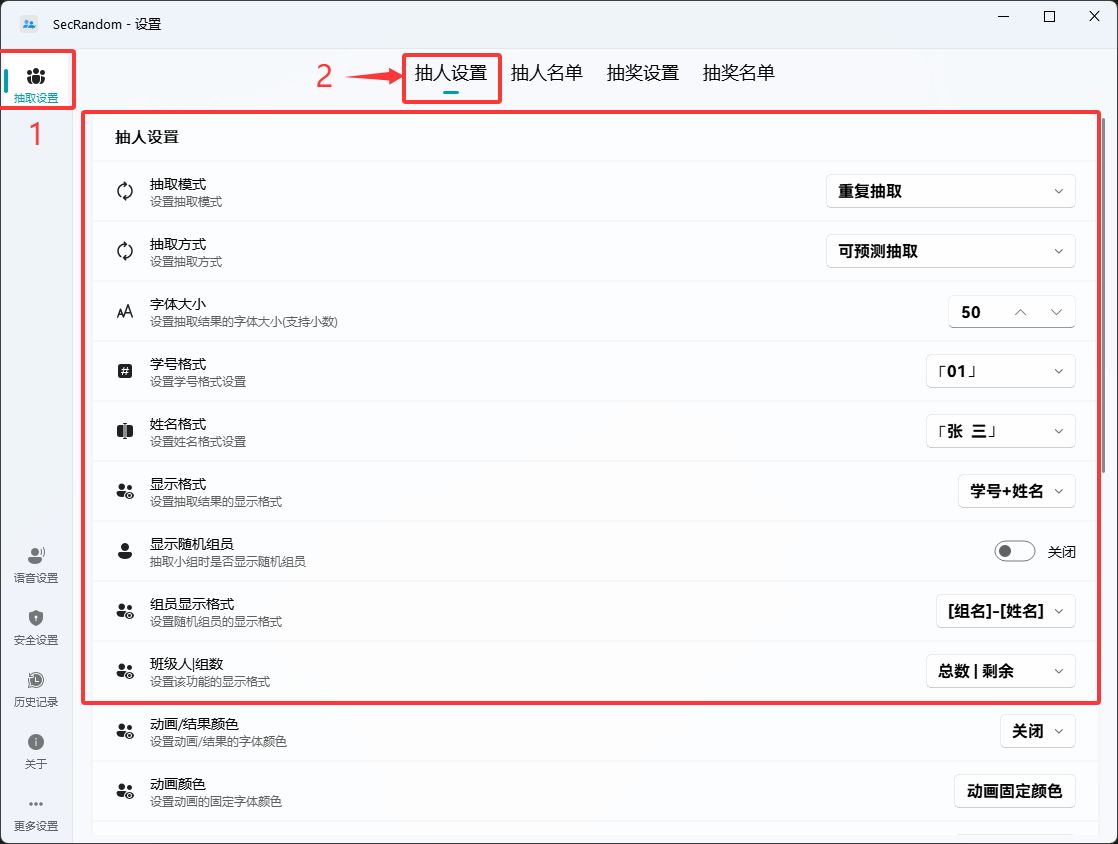
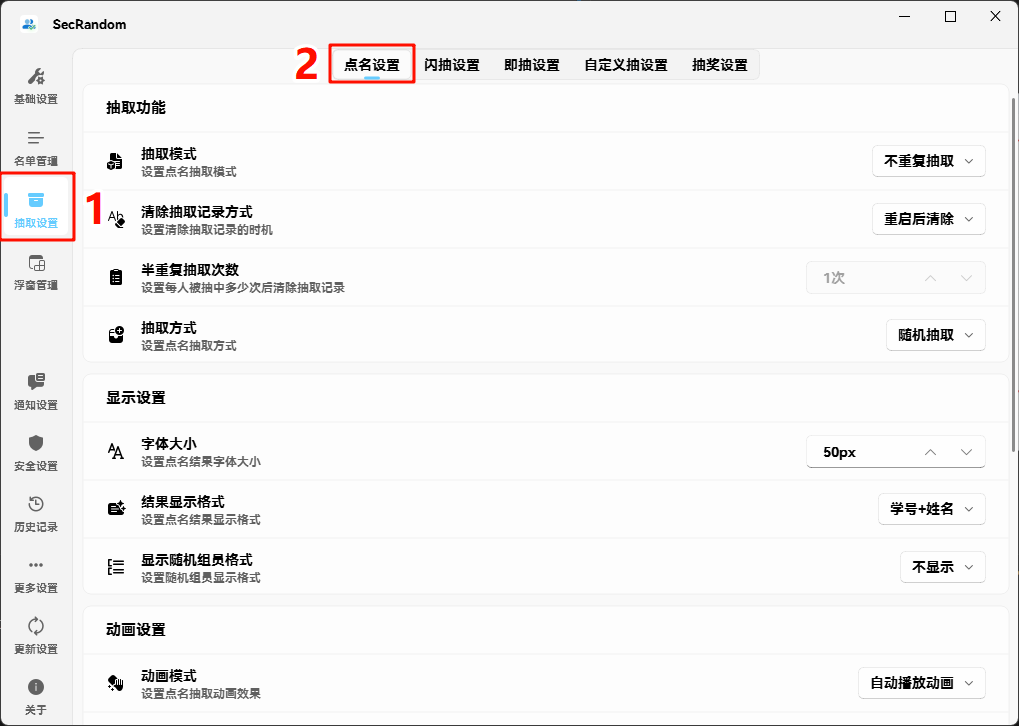
修改了一些文档内容

diff --git a/docs/doc/core-functions/dynamic-weight.md b/docs/doc/core-functions/dynamic-weight.md
@@ -30,72 +30,51 @@ createTime: 2025/11/29 13:22:19
 
 ## 🔍 算法逻辑详解
 
-### 📈 权重计算公式
+### 📈 权重计算过程
 
-系统基于历史记录数据，通过以下**5步计算**得出最终权重：
+系统通过以下几个步骤对每位学生的抽取权重进行计算：
 
 #### 1⃣ 频率惩罚因子
-基于个人总抽取次数的权重调整：
-```python
-frequency_factor = 1.0 / math.sqrt(student_history["total_number_of_times"] * 2 + 1)
-```
 
-**示例计算**：
-- 学生A被抽取5次 → `1/√(5*2+1) = 1/√11 ≈ 0.302`
-- 权重值：0.302（数值越小表示被抽中概率越低）
+系统根据学生的总抽取次数来计算频率惩罚因子，通过不同的数学函数来调整权重：
+
+* **线性函数**：权重随抽取次数的增加线性下降。
+* **平方根函数**：权重随着抽取次数的平方根减少。
+* **指数函数**：权重呈指数级下降。
 
 #### 2⃣ 小组平衡因子
-确保各小组机会均等：
-```python
-group_factor = 1.0 / (group_history * 0.2 + 1)
-```
 
-**触发条件**：至少3个小组有被抽中记录
+通过学生所在小组的历史抽取情况来确保每个小组有均等的机会。小组内抽取次数多的学生会得到适当的权重惩罚。
 
 #### 3⃣ 性别平衡因子
-保持性别比例平衡：
-```python
-gender_factor = 1.0 / (gender_history * 0.2 + 1)
-```
 
-**触发条件**：至少2个性别有被抽中记录
+根据每个性别的历史抽取次数，确保抽取过程中性别比例的平衡。如果某一性别被过度抽取，该性别的学生会受到惩罚。
 
 #### 4⃣ 冷启动保护机制
-保护新加入的学生：
-```python
-if current_round < COLD_START_ROUNDS:  # COLD_START_ROUNDS = 10
-    frequency_factor = min(0.8, frequency_factor)
-```
 
-**保护效果**：新学生前10次抽取享有最低0.8的权重保护
+对新加入的学生进行特别保护，确保他们在初期抽取中不会因数据不足而被忽视。保护期间会给予学生更高的初始权重。
 
-#### 5⃣ 最终权重合成
-综合所有因子得出最终权重：
-```python
-student_weights = {
-    'base': BASE_WEIGHT * 0.2,           # 基础权重 (20%)
-    'frequency': frequency_factor * 3.0,  # 频率惩罚 (60%)
-    'group': group_factor * 0.8,        # 小组平衡 (10%)
-    'gender': gender_factor * 0.8       # 性别平衡 (10%)
-}
-```
+#### 5⃣ 时间因子
 
-::: warning 权重范围
-最终权重值会被规范到合理区间，防止极端值影响公平性
-:::
+考虑学生最后一次被抽中的时间。距离上次抽取较长时间的学生将会得到更高的权重，增加其被抽中的机会。
 
-## 📊 实际应用效果
+### 🔄 权重合成与调整
 
-### 场景示例
-假设班级有30名学生，其中：
-- 小明已被抽中15次（高频）
-- 小红被抽中3次（中频）
-- 小刚是新同学（冷启动）
+各个维度的权重会按照配置的比例进行加权合成，最终生成每个学生的总权重。系统会确保权重在设置的最小值和最大值之间，避免出现极端值影响公平性。
 
-**权重对比**：
-- 小明：低权重（频率惩罚显著）
-- 小红：中等权重（正常水平）
-- 小刚：受保护权重（冷启动机制）
+### 📊 实际应用示例
+
+假设有30名学生，其中：
+
+* 小明已被抽中15次（高频）
+* 小红被抽中3次（中频）
+* 小刚是新同学（冷启动）
+
+根据上述算法：
+
+* **小明**：由于频率较高，频率惩罚较重，权重较低。
+* **小红**：抽中次数适中，权重在正常水平。
+* **小刚**：享有冷启动保护，权重较高。
 
 ### 🎲 抽取概率
 系统根据实时权重计算抽取概率，确保长期统计下的公平性。

diff --git a/docs/doc/core-functions/prize-extraction.md b/docs/doc/core-functions/prize-extraction.md
@@ -14,14 +14,12 @@ createTime: 2025/11/29 12:56:30
 
 #### 1⃣ 打开设置界面
 - **方法一**：右键点击托盘图标 → 选择"设置"
-- **方法二**：双击桌面快捷方式
 
 #### 2⃣ 导航到抽奖设置
 - 在左侧导航栏点击 **"抽取设置"**
 - 在右侧面板顶部选择 **"抽奖设置"**
 
 #### 3⃣ 个性化配置
-![抽奖设置界面](images/1.png)
 
 | 配置项 | 说明 | 建议值 |
 |--------|------|--------|
@@ -39,7 +37,7 @@ createTime: 2025/11/29 12:56:30
 ### 📊 配置步骤
 
 #### 1⃣ 进入抽奖名单
-- 设置界面 → 抽取设置 → 抽奖名单
+- 设置界面 → 名单管理 → 名单管理
 
 #### 2⃣ 基础配置
 - **奖池名称**：为你的奖池起个名字（如"期末奖品"）
@@ -50,9 +48,9 @@ createTime: 2025/11/29 12:56:30
 
 | 奖品示例 | 权重设置 | 概率说明 |
 |----------|----------|----------|
-| 🥇 一等奖 | 100 | 高概率 |
+| 🥇 一等奖 | 10 | 高概率 |
 | 🥈 二等奖 | 50 | 中等概率 |
-| 🥉 三等奖 | 20 | 低概率 |
+| 🥉 三等奖 | 100 | 低概率 |
 | 🎈 参与奖 | 200 | 最高概率 |
 
 ### ⚠ 注意事项
@@ -90,4 +88,4 @@ createTime: 2025/11/29 12:56:30
 |----------|--------------|
 | **课堂抽奖** | 大奖10，小奖50，参与奖200 |
 | **年会抽奖** | 特等奖5，一等奖10，二等奖20，三等奖50 |
-| **促销抽奖** | 优惠券100，小礼品200，谢谢参与500 |
+| **促销抽奖** | 优惠券200，小礼品100，谢谢参与500 |

diff --git a/docs/doc/core-functions/history.md b/docs/doc/core-functions/history.md
@@ -11,8 +11,8 @@ createTime: 2025/11/29 13:02:19
 ### 🎯 核心特性
 - **📋 完整记录**：每次抽取的时间、类型、结果全记录
 - **🔍 智能筛选**：多维度筛选，快速定位历史数据
-- **📊 数据分析**：自动生成统计图表，洞察抽取规律
-- **💾 数据安全**：本地JSON存储，隐私有保障
+- **📊 数据分析**：自动生成统计表格，洞察抽取规律
+- **💾 数据安全**：本地JSON加密存储，隐私有保障
 
 ## 📋 历史记录概述
 
@@ -37,7 +37,14 @@ createTime: 2025/11/29 13:02:19
 ## 👀 查看历史记录
 
 ### 📖 基本浏览
-- **📊 列表视图**：默认以表格形式展示所有历史记录，包含以下列：
+- **📊 查看抽到次数**：查看每个学生的信息及抽到的总次数，表格包含以下列：
+  - 🆔 学号：学生的唯一编号
+  - 🧑 姓名：学生姓名
+  - 🚻 性别：学生性别
+  - 👥 小组：所属小组
+  - 🔢 点名次数：该学生被抽到的累计次数
+- **按时间查看**：按照时间先后查看历史记录，表格包含以下列：
   - ⏰ 时间戳：操作发生的具体日期和时间
-  - 🏷 类型：标识为"抽人"或"抽奖"操作
-- **🔄 排序方式**：支持按时间戳字段排序
+  - 🏷 抽取模式：记录发生时的抽取模式
+  
+- **🔄 排序方式**：支持按时间戳，学号，姓名等多个字段排序

diff --git a/docs/doc/core-functions/person-extraction.md b/docs/doc/core-functions/person-extraction.md
@@ -11,16 +11,15 @@ createTime: 2025/11/24 23:33:37
 简单三步，打造完美课堂抽人体验！
 :::
 
-#### 1⃣ 进入设置界面
-- **托盘图标**：右键点击系统托盘图标 → 选择"设置"
-- **桌面快捷**：双击桌面"SecRandom"图标
+#### 1⃣ 进入设置
+点击系统托盘图标 → 选择"设置"
 
-#### 2⃣ 导航设置
+#### 2⃣ 导航路径
 - 左侧导航栏 → **"抽取设置"**
-- 右侧面板 → **"抽人设置"**
+- 右侧面板 → **"点名设置"**
+<img src="images/ep-2.png" alt="抽人设置界面" width="800"/>
 
 #### 3⃣ 个性化配置
-<img src="/images/person-extraction/ep.png" alt="抽人设置界面" width="800"/>
 
 | 功能设置 | 选项说明 | 推荐配置 |
 |----------|----------|----------|
@@ -38,7 +37,7 @@ createTime: 2025/11/24 23:33:37
 ### 🎯 配置流程
 
 #### 1⃣ 进入名单配置
-- 设置界面 → 抽取设置 → **"抽人名单"**
+- 设置界面 → **"名单管理"**
 
 #### 2⃣ 基础信息配置
 

diff --git a/docs/doc/guide/start.md b/docs/doc/guide/start.md
@@ -14,7 +14,7 @@ createTime: 2025/11/23 19:46:59
 |------|------|------|
 | 💻 **处理器** | 主频 1GHz 或更高 | ✅ 64位 4核心及以上 |
 | 🧠 **内存** | 至少 4 GB | ✅ 8GB+ |
-| 💾 **存储** | 200MB 可用空间 | ✅ 推荐SSD |
+| 💾 **存储** | 300MB 可用空间 | ✅ 推荐SSD |
 | 🖥 **显示器** | 1024×768 分辨率 | ✅ 推荐1080p |
 
 ### 🎯 软件环境
